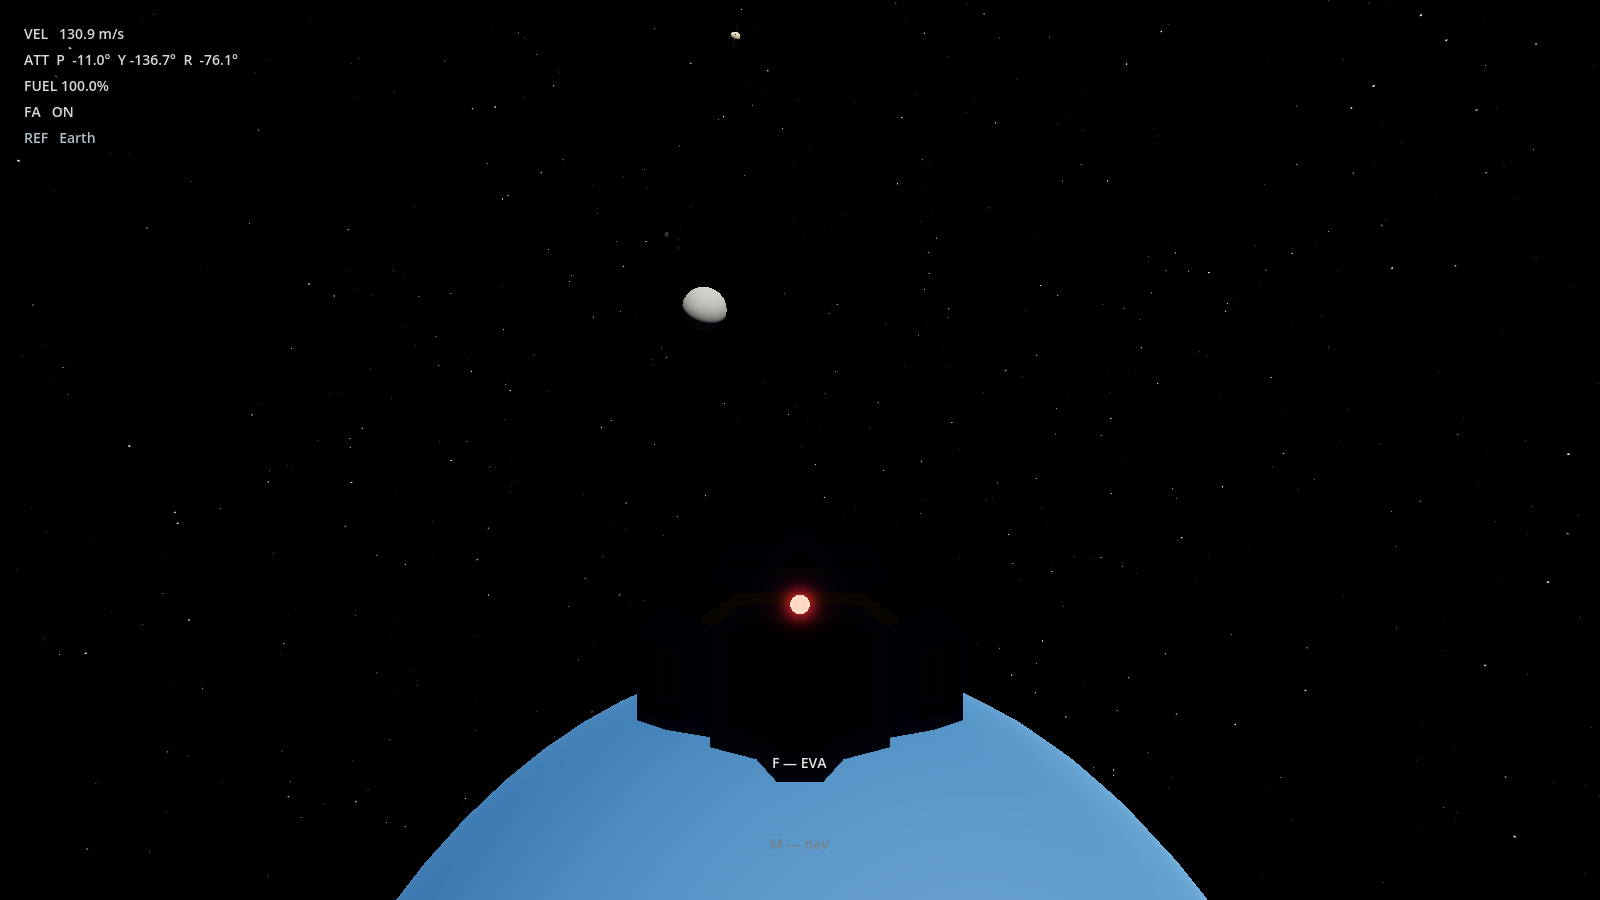
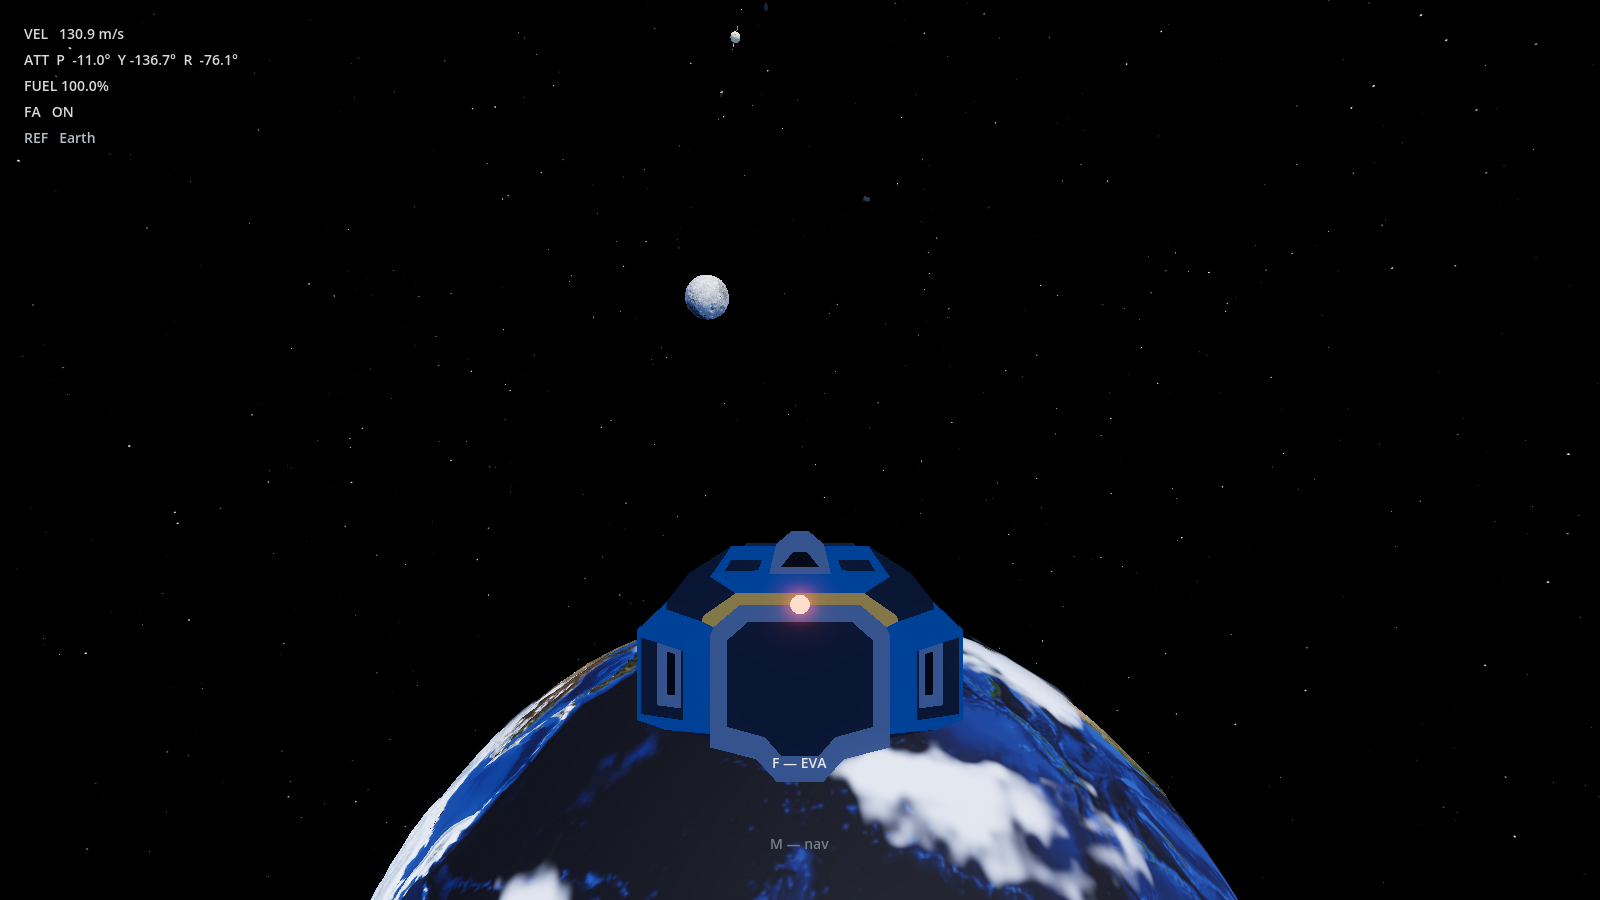
feat(cascade): PR5 — clouds, geomorphing, and a sun that reads as a star
Cloud deck: a translucent sphere at cloud_height_fraction above the
terrain (Earth 0.012, coverage 0.48), seamless value-noise fbm over the
sphere direction, lit by the scene sun so the terminator crosses clouds
and ground together, TIME-drifted weather crawling over the spin. Draws
under the atmosphere shell via render_priority so limb haze and twilight
composite over it; depth testing clips it around relief taller than the
deck; alpha fades at grazing incidence, or a 30%-coverage deck seen
edge-on while skimming saturates into solid overcast. No cloud shadows
on the ground yet.

Geomorphing: build_arrays emits per-vertex parent-surface position and
normal (CUSTOM0/1) — even vertices coincide with parent vertices, odd
ones sit on the parent's interpolation, quad centres on the
ANTI-diagonal because that is the edge the parent's triangles actually
share, skirts morph with the edge they hang from. The surface shader
lerps by a per-patch morph_t driven from the same screen-space error
that decides splits: children arrive rendering exactly as the parent
they replace and reach full detail by 0.75x threshold, so LOD
transitions no longer pop geometry. Site-pinned patches stay full.

Sun: limb-darkened disc pushed past the tonemap white so glow blooms it,
plus an additive billboard glare that stays depth-tested (planets
occlude it per-pixel) and is pulled camera-ward past the disc so the Sun
cannot occlude its own halo.
[…]

Changed region(s): [[0.2188, 0.5911, 0.7812, 1.0], [0.4062, 0.3111, 0.4688, 0.3733]]

diff --git a/docs/tasks.md b/docs/tasks.md
@@ -365,7 +365,12 @@ the lighting behaviour is the requirement, not a coloured rim.
 - [x] Proxy: shell tracks the drawn radius exactly, proxied (Mars) and near (Earth).
 - [x] Screenshots 28–34: Earth limb arc, sunset from low orbit, soft-vs-hard terminator pair (Earth beside Moon), Mars, Titan, Venus, skim aerial perspective — `tests/capture_planet_shots.gd`.
 
-### PR5 (stretch — owner call): clouds, geomorphing, more detail sites (Canaveral, Baikonur, Shanghai, Tycho, Olympus Mons).
+### PR5 — clouds, geomorphing, sun glare (owner-approved 2026-08-22) — BUILT except sites
+
+- [x] **Cloud deck** — `assets/shaders/cloud_layer.gdshader` + `PlanetSurface.configure_clouds()`: translucent sphere at `BodyDef.cloud_height_fraction` (Earth 0.012, coverage 0.48), seamless value-noise fbm over the sphere direction, lit by the scene sun so the terminator crosses clouds and ground together, TIME-drifting weather relative to the spin. Draws under the atmosphere shell (`render_priority` −16 vs −15) so limb haze and twilight composite over it; depth testing clips the sheet around relief taller than the deck. No cloud shadows on the ground yet — noted, not hidden.
+- [x] **Geomorphing** — `PlanetPatchMesh.build_arrays` now emits per-vertex parent-surface position/normal (CUSTOM0/1: even vertices coincide with parent vertices, odd ones sit on the parent's interpolation — quad centres on the ANTI-diagonal, the edge the parent's triangles actually share; skirts morph with their edge). The surface shader lerps by a per-patch `morph_t` instance uniform driven from the same screen-space error that decides splits: children arrive rendering exactly as the parent they replace and reach full detail by 0.75× threshold. Site-pinned patches stay at morph 1. Gate: `planet_test` "geomorph targets" — even-exact, odd-midpoint, roots self-target.
+- [x] **Sun glare** — `sun_disc.gdshader` (limb-darkened disc pushed past the tonemap white so glow blooms it) + `sun_glare.gdshader` (additive billboard halo, depth-tested so planets occlude it per-pixel, pulled camera-ward past the disc so the Sun cannot occlude its own glare). Replaces the flat cream circle.
+- [ ] More detail sites (Canaveral, Baikonur, Shanghai, Tycho, Olympus Mons) — still owner's call on which matter.
 
 ## Track SD — Stations and Docking (SD1 + SD2 COMPLETE — SD3 remains stretch)
 

diff --git a/docs/planet-renderer.md b/docs/planet-renderer.md
@@ -443,7 +443,12 @@ atmosphere everywhere and quietly destroying it.
   per-pixel shell march with planetary shadow and depth-clamped aerial
   perspective, per-channel Cornette-Shanks (the Mars inversion), ozone,
   derived twilight driving the city-light gate, sky-derived ambient fill.
-  Clouds, geomorphing and more sites remain PR5.
+- **PR5 — clouds + geomorphing + sun glare. BUILT** (2026-08-22, see
+  docs/tasks.md): procedural lit cloud deck under the atmosphere shell,
+  per-vertex parent-surface geomorph targets with an error-driven morph
+  factor (LOD transitions no longer pop geometry), limb-darkened blooming
+  sun disc with an occlusion-correct billboard glare. More detail sites
+  remain the open item.
 
 Ordering rationale: PR1 is the highest visible value per line of code (every
 destination in the nav console improves at once, and city lights land), PR2 is
